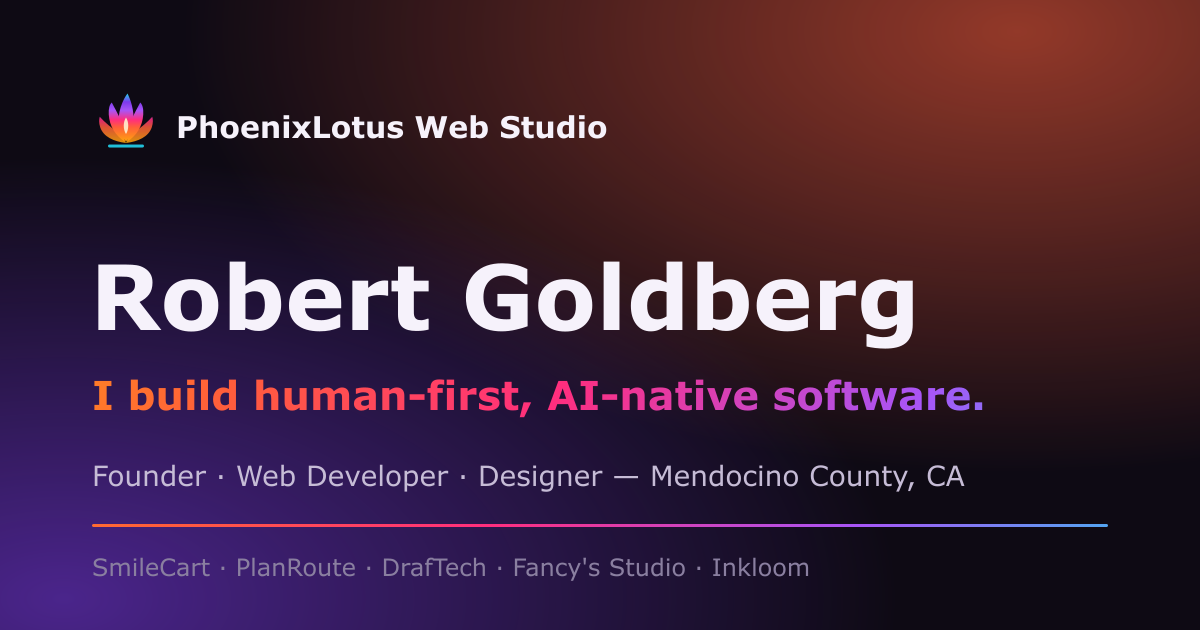
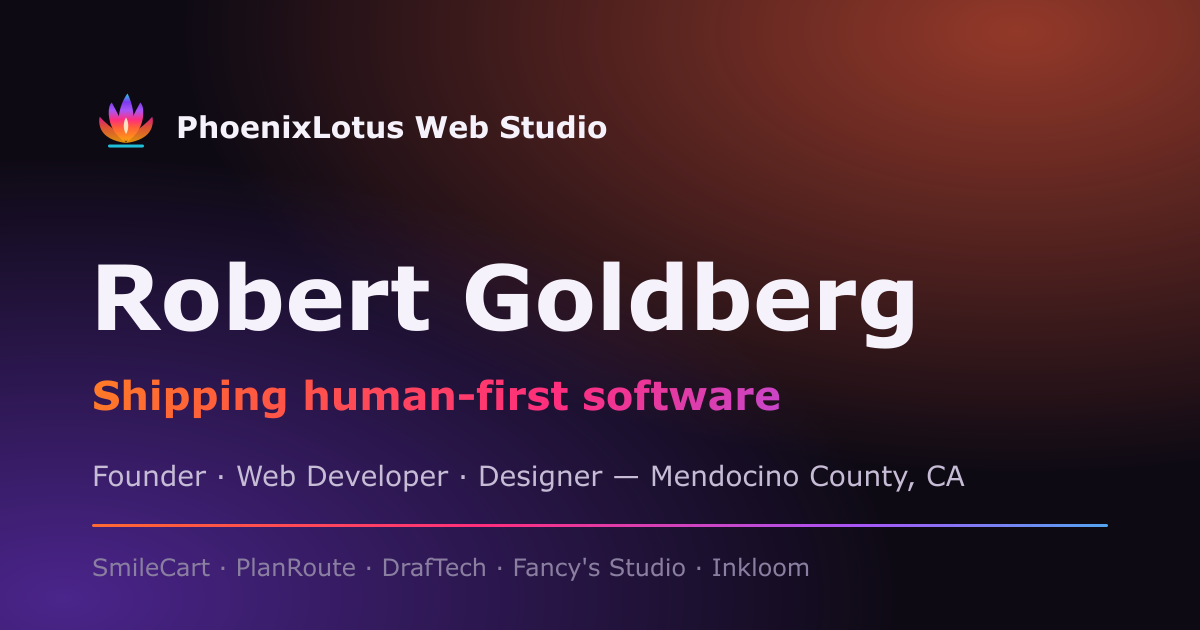
Update hero tagline; fix dark-mode flash, sitemap, meta description, and mobile-menu accessibility
Hero copy: "I build human-first, AI-native software." -> "Shipping
human-first software", now sourced from a single site.tagline
instead of being duplicated across the hero, footer, meta tags,
webmanifest, and the OG share image (regenerated).

Bundled fixes found while tracing the copy:
- Apply the saved/preferred theme via a blocking inline script
  before first paint, eliminating a white flash for dark-mode
  visitors.
- Add the missing /work/gigapet entry to sitemap.xml.
- Point the homepage meta description at a dedicated ~126-char
  site.description instead of the 348-char bio, which Google was
  truncating mid-sentence.
- Trap focus in the mobile nav dialog, move focus in on open and
  restore it to the trigger on close, and wire up
  aria-expanded/aria-controls on the hamburger button.

Changed region(s): [[0.0617, 0.6032, 0.8325, 0.6635]]

diff --git a/src/layout/MobileMenu.tsx b/src/layout/MobileMenu.tsx
@@ -1,4 +1,4 @@
-import { useEffect } from 'react'
+import { useEffect, useRef } from 'react'
 import { Link } from 'react-router-dom'
 import { AnimatePresence, motion } from 'framer-motion'
 import { X } from 'lucide-react'
@@ -8,6 +8,8 @@ import GradientButton from '@/components/GradientButton'
 import { nav, site } from '@/data/site'
 import { useLockBody } from '@/lib/hooks'
 import { EASE } from '@/lib/motion'
+
+const FOCUSABLE = 'a[href], button:not([disabled]), [tabindex]:not([tabindex="-1"])'
 
 const menuVariants = {
   hidden: { opacity: 0 },
@@ -21,9 +23,46 @@ const itemVariants = {
 export default function MobileMenu({ open, onClose }: { open: boolean; onClose: () => void }) {
   useLockBody(open)
 
+  const panelRef = useRef<HTMLDivElement>(null)
+  const closeBtnRef = useRef<HTMLButtonElement>(null)
+  const triggerRef = useRef<HTMLElement | null>(null)
+
+  // Move focus into the panel on open, and restore it to whatever had focus
+  // (the nav's hamburger button) when the menu closes.
   useEffect(() => {
-    const onKey = (e: KeyboardEvent) => e.key === 'Escape' && onClose()
-    if (open) window.addEventListener('keydown', onKey)
+    if (open) {
+      triggerRef.current = document.activeElement as HTMLElement | null
+      closeBtnRef.current?.focus()
+    } else {
+      triggerRef.current?.focus()
+    }
+  }, [open])
+
+  useEffect(() => {
+    if (!open) return
+    const onKey = (e: KeyboardEvent) => {
+      if (e.key === 'Escape') {
+        onClose()
+        return
+      }
+      if (e.key !== 'Tab') return
+      const panel = panelRef.current
+      if (!panel) return
+      const focusable = Array.from(panel.querySelectorAll<HTMLElement>(FOCUSABLE)).filter(
+        (el) => el.offsetParent !== null,
+      )
+      if (focusable.length === 0) return
+      const first = focusable[0]
+      const last = focusable[focusable.length - 1]
+      if (e.shiftKey && document.activeElement === first) {
+        e.preventDefault()
+        last.focus()
+      } else if (!e.shiftKey && document.activeElement === last) {
+        e.preventDefault()
+        first.focus()
+      }
+    }
+    window.addEventListener('keydown', onKey)
     return () => window.removeEventListener('keydown', onKey)
   }, [open, onClose])
 
@@ -31,6 +70,8 @@ export default function MobileMenu({ open, onClose }: { open: boolean; onClose: 
     <AnimatePresence>
       {open && (
         <motion.div
+          id="mobile-menu"
+          ref={panelRef}
           className="fixed inset-0 z-[60] md:hidden"
           initial={{ opacity: 0 }}
           animate={{ opacity: 1 }}
@@ -49,6 +90,7 @@ export default function MobileMenu({ open, onClose }: { open: boolean; onClose: 
             <div className="flex items-center justify-between">
               <Logo />
               <button
+                ref={closeBtnRef}
                 onClick={onClose}
                 aria-label="Close menu"
                 className="grid h-11 w-11 place-items-center rounded-full border border-line bg-surface/60 text-ink"

diff --git a/index.html b/index.html
@@ -9,10 +9,26 @@
     <link rel="manifest" href="/site.webmanifest" />
     <meta name="theme-color" content="#ff5e3a" />
 
+    <!--
+      Apply the saved/preferred theme before first paint — avoids a white flash
+      for dark-mode visitors while React (and useTheme) is still mounting.
+      Keep this logic in sync with src/lib/useTheme.ts's getInitial().
+    -->
+    <script>
+      (function () {
+        try {
+          var s = localStorage.getItem('theme')
+          var dark = s === 'dark' || (!s && matchMedia('(prefers-color-scheme: dark)').matches)
+          document.documentElement.classList.toggle('dark', dark)
+          document.documentElement.style.colorScheme = dark ? 'dark' : 'light'
+        } catch (e) {}
+      })()
+    </script>
+
     <title>Robert Goldberg — Founder, PhoenixLotus Web Studio</title>
     <meta
       name="description"
-      content="PhoenixLotus Web Studio — Robert (Bobby) Goldberg designs and builds human-first, AI-native websites and web apps, for clients and his own products. React / MERN developer in Mendocino County, CA."
+      content="PhoenixLotus Web Studio — human-first, AI-native websites and web apps, designed and built end to end in Mendocino County, CA."
     />
     <link rel="canonical" href="https://phoenixlotus.netlify.app/" />
 
@@ -22,7 +38,7 @@
     <meta property="og:title" content="Robert Goldberg — Founder, PhoenixLotus Web Studio" />
     <meta
       property="og:description"
-      content="I design and build human-first, AI-native websites and web apps — for clients and my own products. PhoenixLotus Web Studio · Mendocino County, CA."
+      content="Shipping human-first, AI-native software. PhoenixLotus Web Studio · Mendocino County, CA."
     />
     <meta property="og:url" content="https://phoenixlotus.netlify.app/" />
     <meta property="og:image" content="https://phoenixlotus.netlify.app/og/og-default.png" />

diff --git a/src/data/site.ts b/src/data/site.ts
@@ -5,7 +5,12 @@ export const site = {
   location: 'Mendocino County, CA',
   email: 'robert.goldberg.dev@gmail.com',
   url: 'https://phoenixlotus.netlify.app',
-  tagline: 'I build human-first, AI-native software.',
+  tagline: 'Shipping human-first software',
+  /** The span of `tagline` the hero fills with the aurora gradient — must appear verbatim in `tagline`. */
+  taglineAccent: 'human-first',
+  /** SEO meta description. Kept under 160 chars so search results don't truncate it. */
+  description:
+    'PhoenixLotus Web Studio — human-first, AI-native websites and web apps, designed and built end to end in Mendocino County, CA.',
   blurb:
     'PhoenixLotus Web Studio is my solo shop in Mendocino County — I design and build websites and web apps end to end, for clients and small businesses as well as my own products. Front end, database, serverless backend, payments, native shells; real schemas, real money paths, real Claude pipelines, no vaporware. I’m also a licensed pilot and a dad.',
   blurb2:

diff --git a/src/sections/Hero.tsx b/src/sections/Hero.tsx
@@ -18,6 +18,8 @@ const item = {
 }
 
 export default function Hero() {
+  const [before, after] = site.tagline.split(site.taglineAccent)
+
   return (
     <section className="relative flex min-h-[100svh] items-center overflow-hidden pt-28 pb-16">
       <AuroraBackground />
@@ -36,8 +38,9 @@ export default function Hero() {
           </motion.p>
 
           <motion.h1 variants={item} className="text-hero font-extrabold text-ink">
-            I build <GradientText>human-first</GradientText>,
-            <br className="hidden sm:block" /> <GradientText>AI-native</GradientText> software.
+            {before}
+            <GradientText>{site.taglineAccent}</GradientText>
+            {after}
           </motion.h1>
 
           <motion.p variants={item} className="mt-6 text-xl font-medium text-ink-soft sm:text-2xl">

diff --git a/src/pages/Home.tsx b/src/pages/Home.tsx
@@ -12,7 +12,7 @@ export default function Home() {
     <>
       <Helmet>
         <title>{site.name} — {site.role}</title>
-        <meta name="description" content={site.blurb} />
+        <meta name="description" content={site.description} />
         <link rel="canonical" href={site.url + '/'} />
         <meta property="og:title" content={`${site.name} — ${site.role}`} />
         <meta property="og:description" content={site.tagline} />

diff --git a/src/layout/Nav.tsx b/src/layout/Nav.tsx
@@ -61,6 +61,8 @@ export default function Nav() {
             <button
               onClick={() => setMenuOpen(true)}
               aria-label="Open menu"
+              aria-expanded={menuOpen}
+              aria-controls="mobile-menu"
               className="grid h-10 w-10 place-items-center rounded-full border border-line bg-surface/60 text-ink md:hidden"
             >
               <Menu size={20} />
